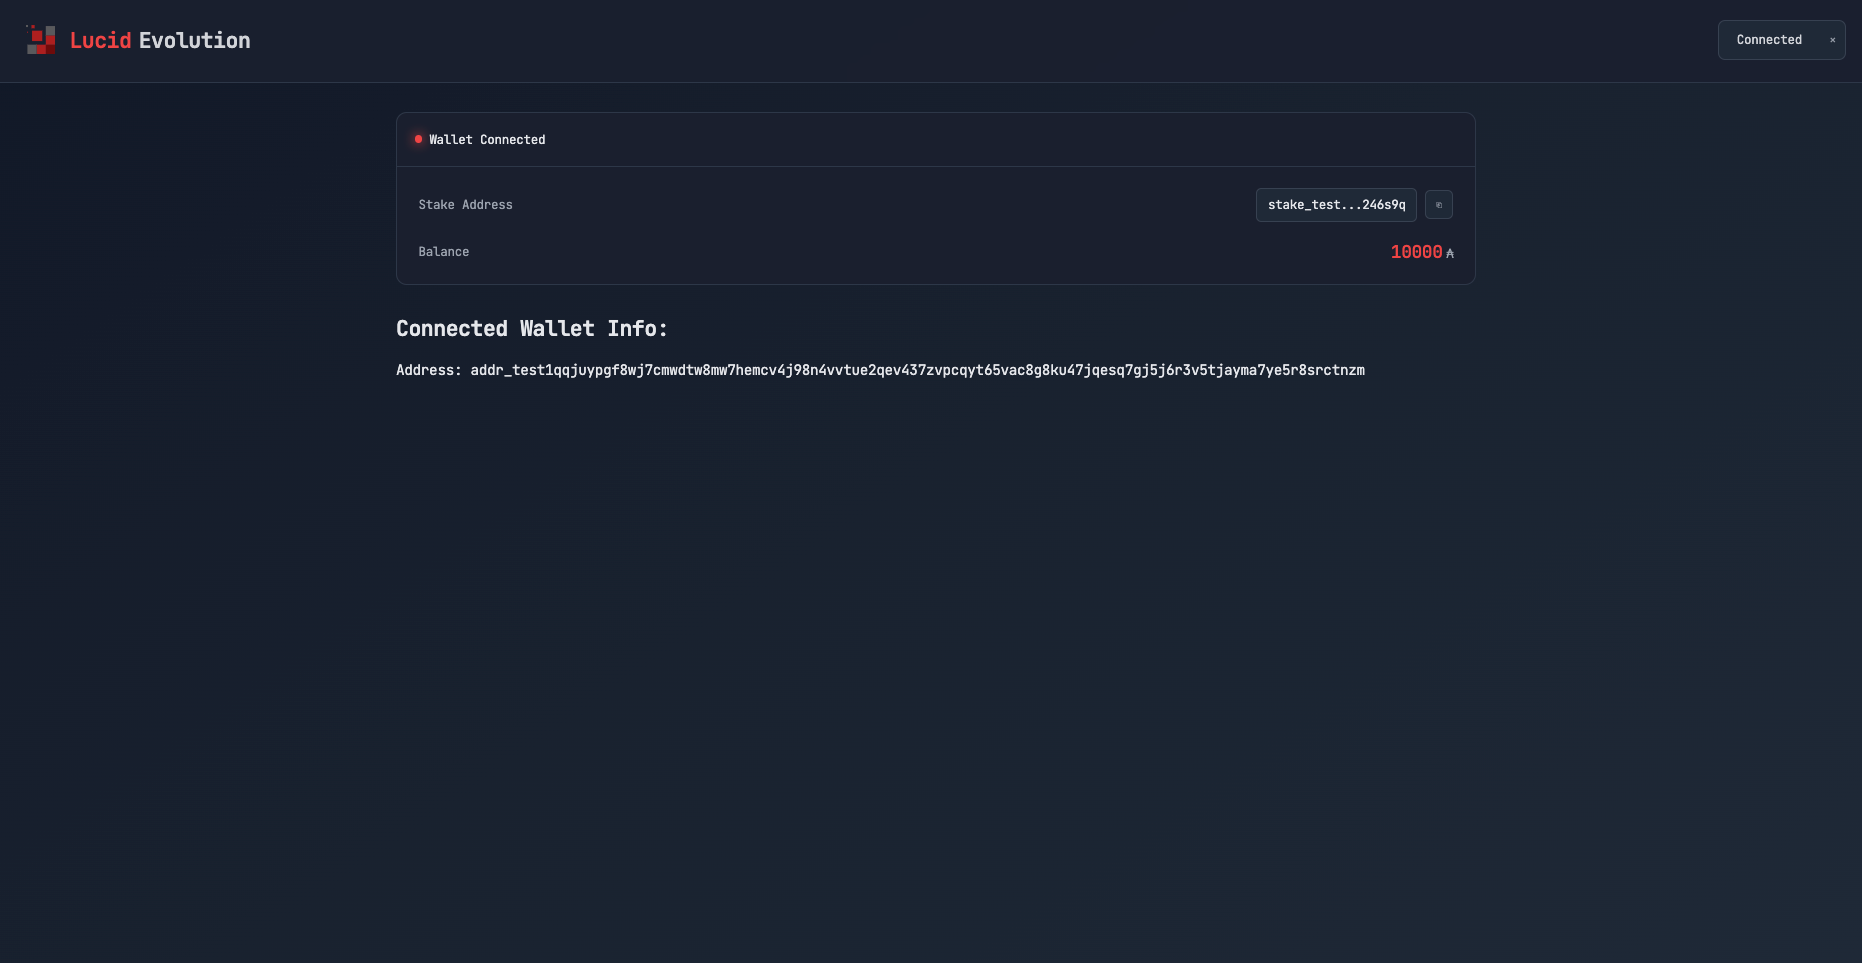
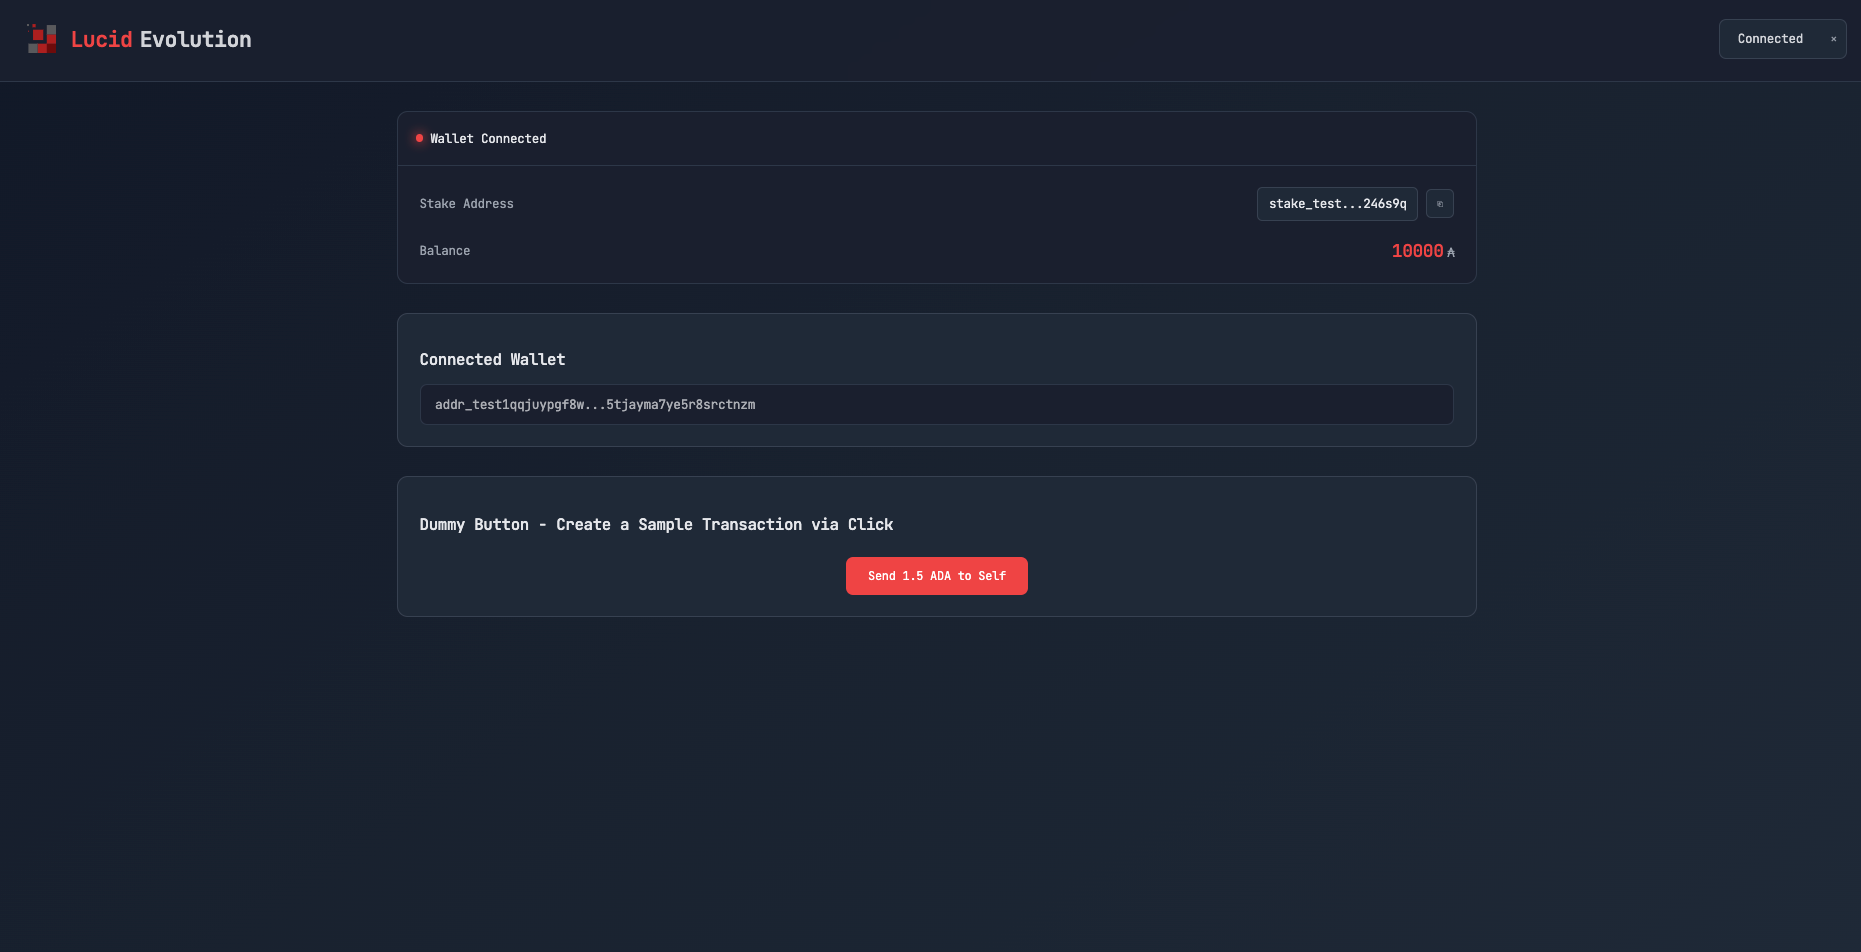
update: explanation to dummy tx and update UI image

diff --git a/examples/with-react-cra/README.md b/examples/with-react-cra/README.md
@@ -59,6 +59,27 @@ src/
 
 Currently configured for Preprod testnet. To use on other networks, modify the `NetworkType` in `useWallet.ts` and update the Blockfrost endpoint accordingly.
 
+## Transaction Example & Security
+
+The template includes a dummy transaction feature that demonstrates secure transaction handling using a secure approach:
+
+1. Transaction Building (Client-Side):
+   - Creates an unsigned transaction with specified parameters (amount, addresses)
+   - Converts the transaction to CBOR (Concise Binary Object Representation) format
+
+2. Wallet Interaction:
+   - The unsigned CBOR transaction is passed to the wallet
+   - Wallet signs the transaction using CIP-30 standards
+   - Private keys never leave the wallet's secure environment
+   - Signing is done completely client-side in the user's browser
+
+3. Submission:
+   - The signed transaction is submitted to the Cardano network
+   - Only public information (addresses, amounts) and the signed CBOR are used
+   - No sensitive data is ever exposed or transmitted
+
+The example demonstrates best practices for building secure Cardano dApps where all sensitive operations are delegated to the user's wallet while maintaining a simple, frontend-only architecture.
+
 ## Demo Screenshots
 
 ### Initial Connect Wallet Screen
